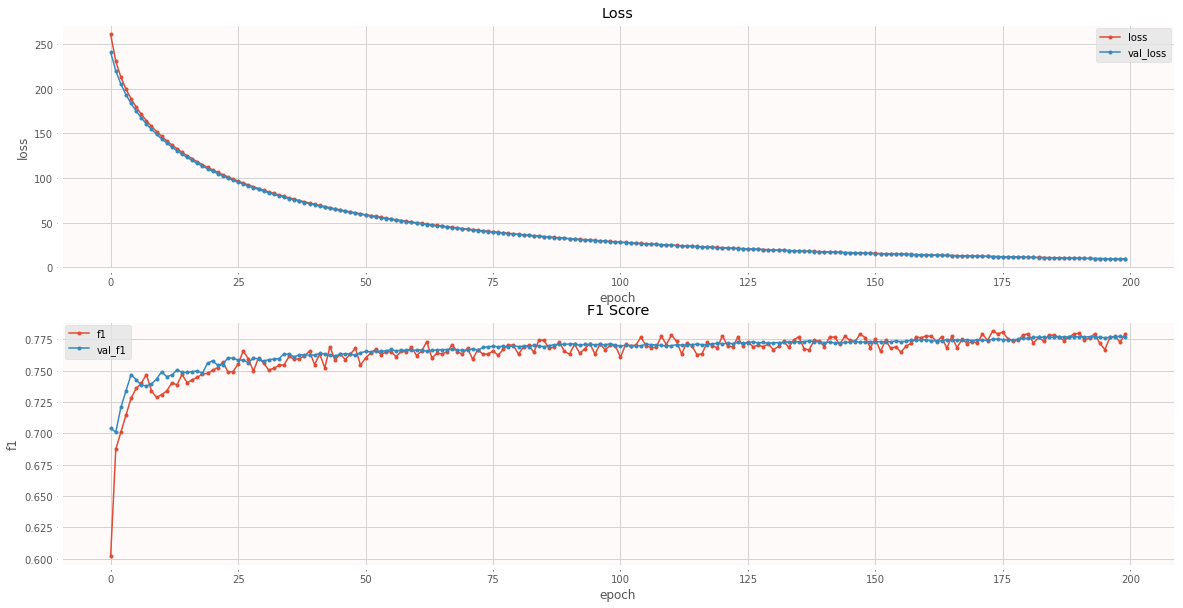
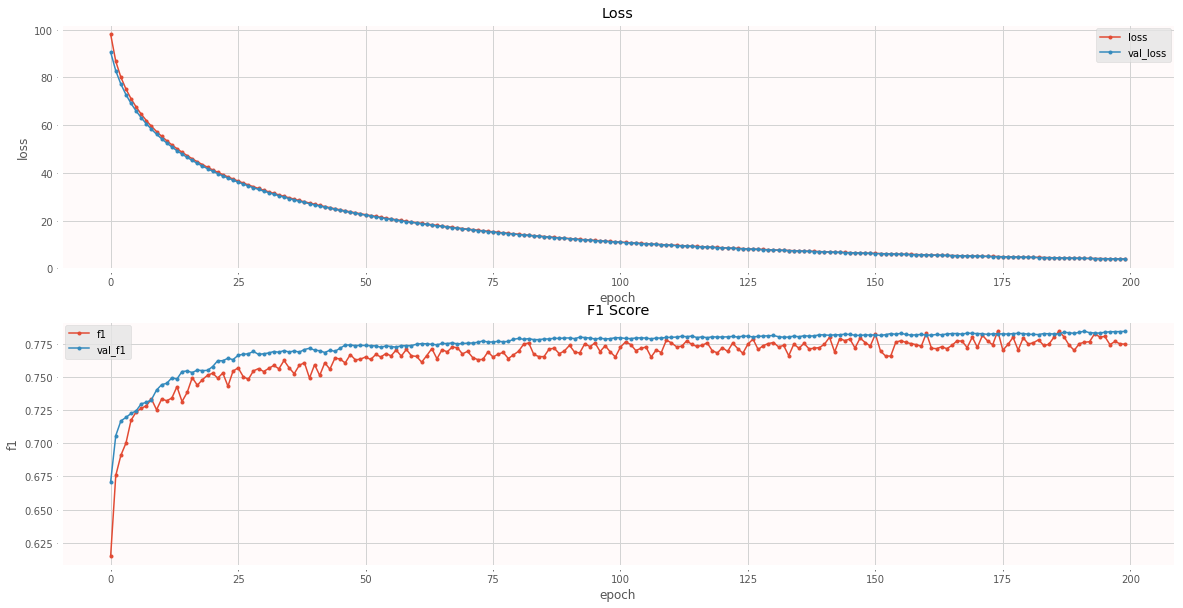
update 2020/05/20

diff --git a/README.md b/README.md
@@ -870,16 +870,27 @@ def train_cnn_lstm(x_train, y_train, wv_matrix, verbose=0, load_weights=False):
     x_input = Input(shape=(config["MAX_LEN"], ))
     x = Embedding(wv_matrix.shape[0], wv_matrix.shape[1], weights=[wv_matrix], trainable=False)(x_input)
     x = SpatialDropout1D(config['dropout_rate'])(x)
-    x = Conv1D(filters=config['nb_filter'], kernel_size=config['filter_length'], padding=config['border_mode'])(x)
-    x = BatchNormalization()(x)
-    x = Activation("relu")(x)
+    
     x = Conv1D(filters=config['nb_filter'], kernel_size=config['filter_length'], padding=config['border_mode'])(x)
     x = BatchNormalization()(x)
     x = Activation("relu")(x)
     x = MaxPooling1D(pool_size=config['pool_length'])(x)
-    x = Bidirectional(LSTM(units=config['lstm_cell'], return_sequences=True, kernel_regularizer=regularizers.l2(0.3)))(x)
-    x = Bidirectional(LSTM(units=config['lstm_cell'], return_sequences=False, kernel_regularizer=regularizers.l2(0.3)))(x)
-    x = Dense(config['fc_cell']*2)(x)
+    
+    x = Conv1D(filters=config['nb_filter']*2, kernel_size=config['filter_length'], padding=config['border_mode'])(x)
+    x = BatchNormalization()(x)
+    x = Activation("relu")(x)
+    x = MaxPooling1D(pool_size=config['pool_length'])(x)
+    
+    x = Conv1D(filters=config['nb_filter']*4, kernel_size=config['filter_length'], padding=config['border_mode'])(x)
+    x = BatchNormalization()(x)
+    x = Activation("relu")(x)
+    x = MaxPooling1D(pool_size=config['pool_length'])(x)
+    
+    x = LSTM(units=config['lstm_cell'], return_sequences=True, kernel_regularizer=regularizers.l2(0.3))(x)
+    x = SeqSelfAttention(units=config['lstm_cell'], kernel_regularizer=regularizers.l2(0.1))(x)
+    
+    x = Flatten()(x)
+    x = Dense(config['fc_cell'])(x)
     x = Dropout(config['dropout_rate'])(x)
     x = Dense(units=1)(x)
     x = Activation('sigmoid')(x)
@@ -887,12 +898,12 @@ def train_cnn_lstm(x_train, y_train, wv_matrix, verbose=0, load_weights=False):
 
     if not load_weights:
         model.compile(loss=config['loss'], 
-                      optimizer=Nadam(learning_rate=0.001, beta_1=0.9, beta_2=0.999), 
+                      optimizer=adadelta, 
                       metrics=[get_f1])
 
         print("="*20, "Start Training CNN-LSTM", "="*20)
 
-        path = r'C:\Users\YangWang\Desktop\Text_Classifier_for_UtaPass_and_KKBOX\weights\{}_weights.hdf5'.format("cnn_lstm")
+        path = r'C:\Users\YangWang\Desktop\UtaPass_KKBOX_Classifier\weights\{}_weights.hdf5'.format("cnn_lstm")
         model_checkpoint = ModelCheckpoint(path, monitor='val_loss', verbose=0, save_best_only=True, mode='auto')
         early_stopping = EarlyStopping(monitor='val_loss', patience=20, verbose=0, mode='auto')
         reduce_lr = ReduceLROnPlateau(monitor='val_loss', factor=0.2, patience=10, min_lr=0.001)
@@ -907,7 +918,7 @@ def train_cnn_lstm(x_train, y_train, wv_matrix, verbose=0, load_weights=False):
             callbacks=[early_stopping, reduce_lr, model_checkpoint])
     if load_weights: 
         history = None
-        path = r'C:\Users\YangWang\Desktop\Text_Classifier_for_UtaPass_and_KKBOX\weights\{}_weights.hdf5'.format("cnn_lstm")
+        path = r'C:\Users\YangWang\Desktop\UtaPass_KKBOX_Classifier\weights\{}_weights.hdf5'.format("cnn_lstm")
         model.load_weights(path)
     
     return history, model
@@ -1323,9 +1334,9 @@ Compare the performance among several deep learning models.
 
 #### Simple RNN
 
-Accuracy:  0.7295 
+Accuracy:  0.7419 
 
-F1 Score:  0.7790
+F1 Score:  0.7773
 
 <p align="center"> 
 <img src="https://github.com/penguinwang96825/Text_Classifier_for_UtaPass_and_KKBOX/blob/master/image/simple-rnn/simple_rnn.png">
@@ -1367,9 +1378,9 @@ _________________________________________________________________
 
 #### GRU
 
-Accuracy:  0.7639 
+Accuracy:  0.7821
 
-F1 Score:  0.8040
+F1 Score:  0.8216
 
 <p align="center"> 
 <img src="https://github.com/penguinwang96825/Text_Classifier_for_UtaPass_and_KKBOX/blob/master/image/gru/gru.png">
@@ -1411,9 +1422,9 @@ _________________________________________________________________
 
 #### LSTM
 
-Accuracy:  0.7539 
+Accuracy:  0.7697
 
-F1 Score:  0.7870
+F1 Score:  0.7945
 
 <p align="center"> 
 <img src="https://github.com/penguinwang96825/Text_Classifier_for_UtaPass_and_KKBOX/blob/master/image/lstm/lstm.png">
@@ -1455,9 +1466,9 @@ _________________________________________________________________
 
 #### BiLSTM
 
-Accuracy:  0.7481 
+Accuracy:  0.7430
 
-F1 Score:  0.8006
+F1 Score:  0.7696
 
 <p align="center"> 
 <img src="https://github.com/penguinwang96825/Text_Classifier_for_UtaPass_and_KKBOX/blob/master/image/bilstm/bilstm.png">
@@ -1503,9 +1514,9 @@ _________________________________________________________________
 
 #### Attention
 
-Accuracy:  0.7411 
+Accuracy:  0.7496
 
-F1 Score:  0.7809
+F1 Score:  0.7857
 
 <p align="center"> 
 <img src="https://github.com/penguinwang96825/Text_Classifier_for_UtaPass_and_KKBOX/blob/master/image/attention/attention.png">
@@ -1551,9 +1562,9 @@ _________________________________________________________________
 
 #### CNN-Static
 
-Accuracy:  0.7663 
+Accuracy:  0.7736
 
-F1 Score:  0.7972
+F1 Score:  0.8031
 
 <p align="center"> 
 <img src="https://github.com/penguinwang96825/Text_Classifier_for_UtaPass_and_KKBOX/blob/master/image/cnn-static/cnn_static.png">
@@ -1619,9 +1630,9 @@ ________________________________________________________________________________
 
 #### CNN-MultiChannel
 
-Accuracy:  0.7581 
+Accuracy:  0.7744
 
-F1 Score:  0.7922
+F1 Score:  0.8073
 
 <p align="center"> 
 <img src="https://github.com/penguinwang96825/Text_Classifier_for_UtaPass_and_KKBOX/blob/master/image/cnn-multichannel/cnn_multichannel.png">
@@ -1703,9 +1714,9 @@ ________________________________________________________________________________
 
 #### CNN-LSTM
 
-Accuracy:  0.7779 
+Accuracy:  0.7380
 
-F1 Score:  0.8007
+F1 Score:  0.7785
 
 <p align="center"> 
 <img src="https://github.com/penguinwang96825/Text_Classifier_for_UtaPass_and_KKBOX/blob/master/image/cnn-lstm/cnn_lstm.png">
@@ -1734,38 +1745,50 @@ batch_normalization_1 (Batch (None, 64, 150)           600
 _________________________________________________________________
 activation_1 (Activation)    (None, 64, 150)           0         
 _________________________________________________________________
-conv1d_2 (Conv1D)            (None, 64, 150)           67650     
-_________________________________________________________________
-batch_normalization_2 (Batch (None, 64, 150)           600       
-_________________________________________________________________
-activation_2 (Activation)    (None, 64, 150)           0         
-_________________________________________________________________
 max_pooling1d_1 (MaxPooling1 (None, 32, 150)           0         
 _________________________________________________________________
-bidirectional_1 (Bidirection (None, 32, 128)           110080    
+conv1d_2 (Conv1D)            (None, 32, 300)           135300    
 _________________________________________________________________
-bidirectional_2 (Bidirection (None, 128)               98816     
+batch_normalization_2 (Batch (None, 32, 300)           1200      
 _________________________________________________________________
-dense_1 (Dense)              (None, 256)               33024     
+activation_2 (Activation)    (None, 32, 300)           0         
 _________________________________________________________________
-dropout_1 (Dropout)          (None, 256)               0         
+max_pooling1d_2 (MaxPooling1 (None, 16, 300)           0         
 _________________________________________________________________
-dense_2 (Dense)              (None, 1)                 257       
+conv1d_3 (Conv1D)            (None, 16, 600)           540600    
 _________________________________________________________________
-activation_3 (Activation)    (None, 1)                 0         
+batch_normalization_3 (Batch (None, 16, 600)           2400      
+_________________________________________________________________
+activation_3 (Activation)    (None, 16, 600)           0         
+_________________________________________________________________
+max_pooling1d_3 (MaxPooling1 (None, 8, 600)            0         
+_________________________________________________________________
+lstm_1 (LSTM)                (None, 8, 64)             170240    
+_________________________________________________________________
+seq_self_attention_1 (SeqSel (None, 8, 64)             8321      
+_________________________________________________________________
+flatten_1 (Flatten)          (None, 512)               0         
+_________________________________________________________________
+dense_1 (Dense)              (None, 128)               65664     
+_________________________________________________________________
+dropout_1 (Dropout)          (None, 128)               0         
+_________________________________________________________________
+dense_2 (Dense)              (None, 1)                 129       
+_________________________________________________________________
+activation_4 (Activation)    (None, 1)                 0         
 =================================================================
-Total params: 2,697,677
-Trainable params: 445,577
-Non-trainable params: 2,252,100
+Total params: 3,311,104
+Trainable params: 1,057,504
+Non-trainable params: 2,253,600
 _________________________________________________________________
 </code></pre>
 </details>
 
 #### Text-ResNet
 
-Accuracy:  0.7245 
+Accuracy:  0.7283
 
-F1 Score:  0.7560
+F1 Score:  0.7535
 
 <p align="center"> 
 <img src="https://github.com/penguinwang96825/Text_Classifier_for_UtaPass_and_KKBOX/blob/master/image/text-resnet/text_resnet.png">
@@ -2193,10 +2216,10 @@ ________________________________________________________________________________
 #### Deep Learning Model
 ||Simple-RNN|GRU|LSTM|BiLSTM|Attention|CNN-Static|CNN-MultiChannel|CNN-LSTM|Text-ResNet|
 |---|---|---|---|---|---|---|---|---|---|
-|Accuracy|0.7419|0.7639|0.7539|0.7481|0.7411|0.7663|0.7581|0.7779|0.7245|
-|F1 Score|0.7773|0.8040|0.7870|0.8006|0.7809|0.7972|0.7922|0.8007|0.7560|
-|Total params (M)|2.27|2.31|2.37|2.55|2.50|2.79|7.29|2.69|30.16|
-|Trainable params (M)|0.02|0.06|0.12|0.30|0.25|0.54|0.54|0.44|27.89|
+|Accuracy|0.7419|0.7821|0.7697|0.7430|0.7496|0.7736|0.7744|0.7380|0.7283|
+|F1 Score|0.7773|0.8216|0.7945|0.7696|0.7857|0.8031|0.8073|0.7785|0.7535|
+|Total params (M)|2.27|2.31|2.37|2.55|2.50|2.79|7.29|3.31|30.16|
+|Trainable params (M)|0.02|0.06|0.12|0.30|0.25|0.54|0.54|1.05|27.89|
 |Non-trainable params (M)|2.25|2.25|2.25|2.25|2.25|2.25|6.75|2.25|2.27|
 
 #### Pre-trained Language Model
